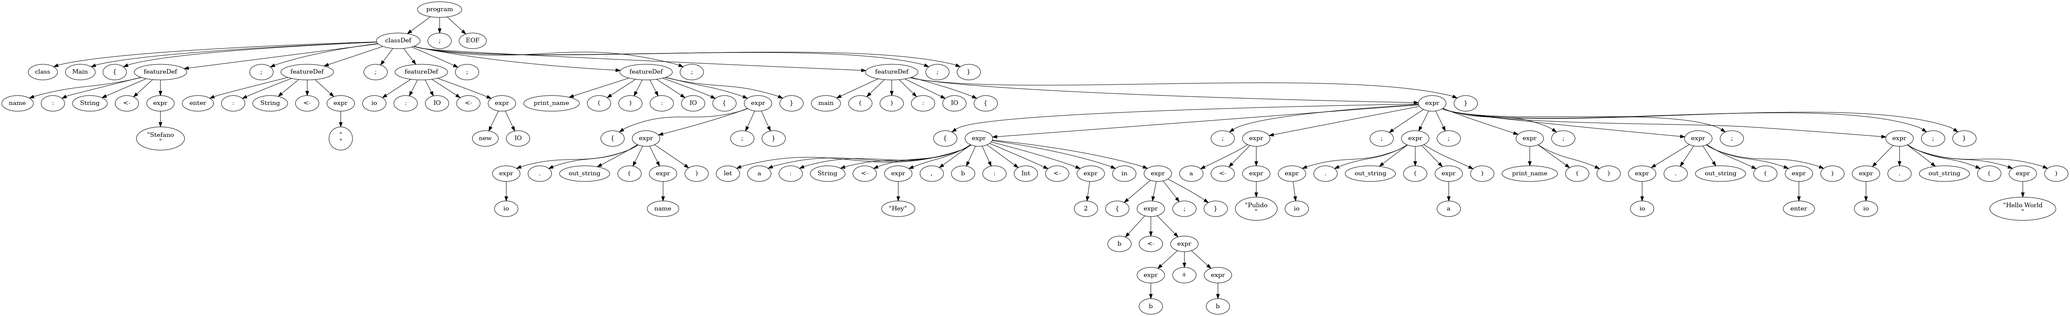
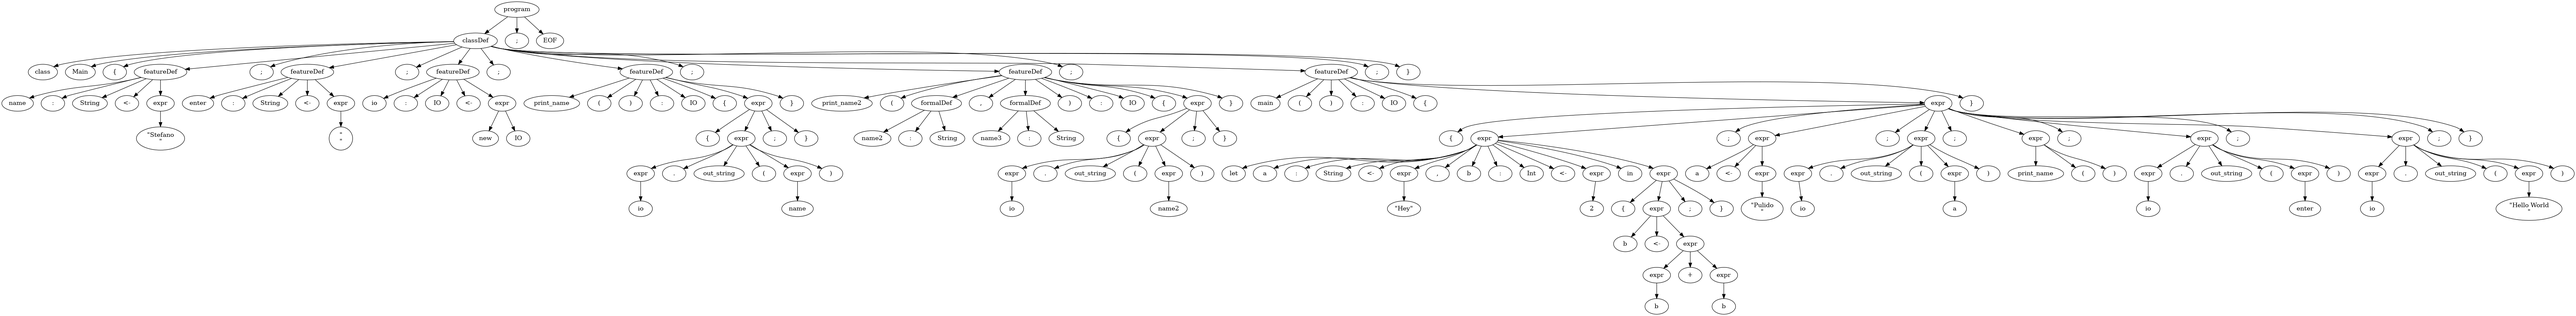
add: reserva memoria CLASS & lectura params 3D

diff --git a/modules/AssemblerConvertor.py b/modules/AssemblerConvertor.py
@@ -69,7 +69,6 @@ class AssemblerConvertor:
                     # Liberar temp2
                     self.use_temps.remove(int(temp1[1:]))  # Free temp1
                     self.use_temps.remove(int(temp2[1:]))  # Free temp2
-
                 elif opcion[0] == "MINUS":
                     restemp = op[0].strip()
                     self.use_stemps.append(int(restemp[1:]))
@@ -109,30 +108,85 @@ class AssemblerConvertor:
                     # Liberar temp2
                     self.use_temps.remove(int(temp1[1:]))  # Free temp1
                     self.use_temps.remove(int(temp2[1:]))  # Free temp2
+                
+                # TODO: CALL
+                elif opcion[0] == "CALL":
+                    pass
 
             elif instruction.startswith("FUNCTION"):
-                name = instruction.split(".")[1]
-                assmbler = f"{self.current_tab}{name}:"
+                tokens = instruction.split(" ")
+                name = tokens[1]
+                assmbler = f"\n{name}:"
                 self.write(assmbler)
                 self.current_tab += "\t"
+                assmbler = f"\tmove $s1, $a0"
+                self.reserva_memoria_func(tokens)
 
+            # TODO: LIMPIAR MEMORIA
             elif instruction.startswith("END FUNCTION"):
                 self.current_tab = self.current_tab[:-1]
 
             elif instruction.startswith("CLASS"):
-                name = instruction.split(' ')[1]
-                assmbler = f"CLASS_{name}"
+                tokens = instruction.split(" ")
+                name = tokens[1]
+                assmbler = f"CLASS_{name}\n"
                 self.write(assmbler)
                 self.current_tab += "\t"
+                self.reserva_memoria_class(tokens)
+
+            elif instruction.startswith("ASSIGN"):
+                tokens = instruction.split(" ")
+                name = tokens[1]
+                value = tokens[2]
+                assmbler = f"{self.current_tab}li ${name}, {value}"
+                self.write(assmbler)
+
+            # TODO: LIMPIAR MEMORIA
+            elif instruction.startswith("END CLASS"):
+                self.current_tab = self.current_tab[:-1]
 
         self.end()
 
-    def reserva_memoria_class(self, name):
-        self.write(f"# ======== RESERVA DE MEMORIA para ClASS_{name} ========")
+    def reserva_memoria_class(self, tokens):
+        self.write(f"# ======== RESERVA DE MEMORIA para ClASS_{tokens[1]} ========")
+        size = 0
+
+        for index, token in enumerate(tokens):
+            if token == 'SIZE':
+                size = tokens[index + 1]
+                break
+
+        self.write(f"\tli $a0, {size}")
+        self.write(f"\tli $v0, 9")
+        self.write(f"\tsyscall")
+        self.write(f"\tmove $t0, $v0")
+        self.write(f"\tsw $t0, CLASS_{tokens[1]}")
+        
+
+    def reserva_memoria_func(self, tokens):
+        self.write(f"# ======== INICIALIZAR DE MEMORIA FUNCION {tokens[1]} ========")
+        size = 0
+
+        for index, token in enumerate(tokens):
+            if token == 'SIZE':
+                size = tokens[index + 1]
+                break
+
+        self.write(f"addi $sp, $sp, -{8}") # mover el stack pointer para hacer espacio para el $fp y $ra
+        self.write(f"sw $fp, 0($sp)") # guardar el frame pointer en el stack
+        self.write(f"sw $ra, 4($sp)") # guardar el return addres en el stack
+
+        # mover el frame pointer y reservar espacio para las variables locales
+        self.write(f"move $fp, $sp") # Actualizar el frame pointer
+        self.write(f"addi $sp, $sp, -{size}")# reservar espacio para las variables locales
+        
+
+
+
         
 
     def write_basic(self):
-        self.write("jal CLASS_MAIN")
+        self.write("jal CLASS_Main")
 
 
         self.write("# ======== FUNCIONES BASICAS ========")

diff --git a/modules/TreeDirections.py b/modules/TreeDirections.py
@@ -158,11 +158,26 @@ class TreeDirections(ParseTreeVisitor):
             simbol: Symbol = self.symbol_table.lookup(name)
             function_scope = self.symbol_table.current_scope
             self.write(f"\nFUNCTION {simbol.scope} SIZE {simbol.memory_usage}")
+
             for scope in simbol.myscope.children:
                 if scope.name == name:
                     function_scope = scope
                     
             self.symbol_table.current_scope = function_scope    
+
+            functions_params = []
+            for index, child in enumerate(ctx.children):
+                if isinstance(child, YAPLParser.FormalDefContext):
+                    functions_params.append(child)
+
+            for idx, param in enumerate(functions_params):
+                name = param.OBJECT_ID().getText()
+
+                simbol: Symbol = self.symbol_table.lookup(name)
+                
+                smm = f"sp[{simbol.memory_position}] = PARAM_{idx}"
+                self.write(f"\t{smm}")
+
             children = []
             for child in ctx.children:
                 chil = self.visit(child)
